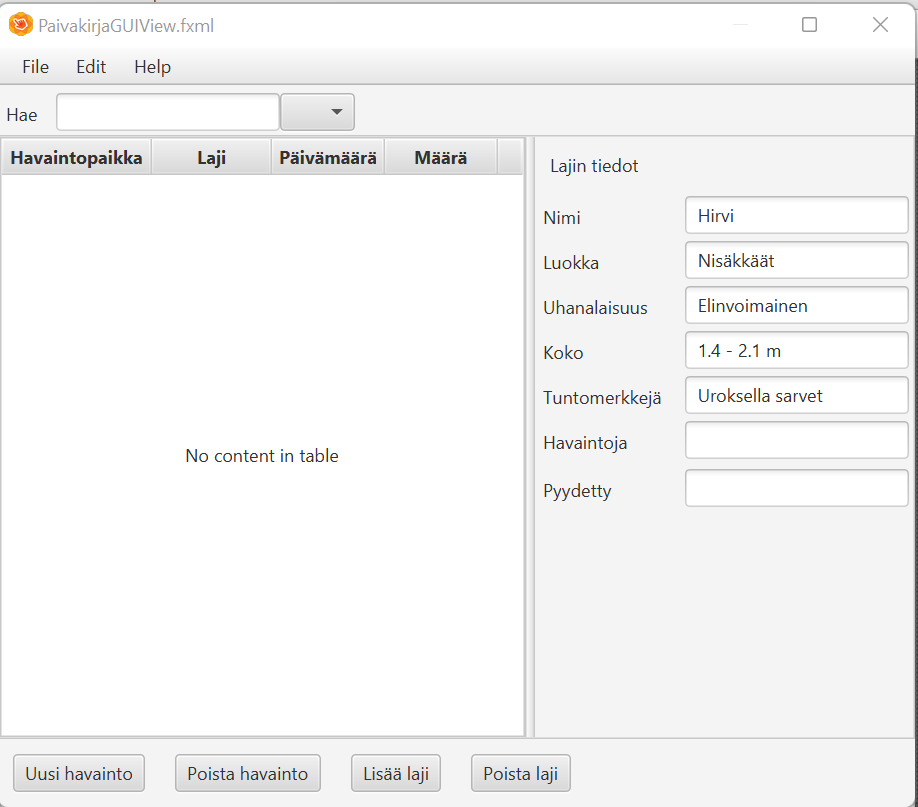
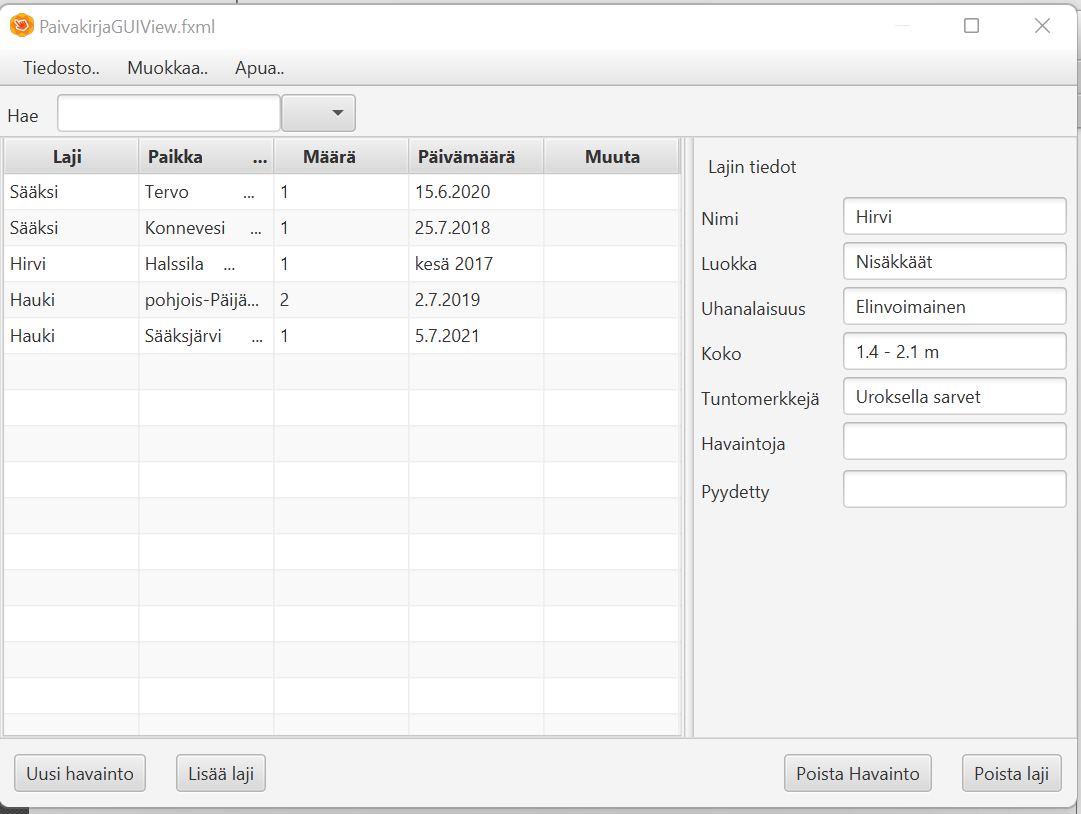
Aloitettu vaihetta 3

diff --git a/paivakirja/src/fxPaivakirja/PaivakirjaGUIController.java b/paivakirja/src/fxPaivakirja/PaivakirjaGUIController.java
@@ -1,10 +1,83 @@
 package fxPaivakirja;
 
+import java.awt.Desktop;
+import java.io.IOException;
+import java.net.URI;
+import java.net.URISyntaxException;
+
+import fi.jyu.mit.fxgui.Dialogs;
+import javafx.fxml.FXML;
+import javafx.scene.control.Button;
+import javafx.scene.control.ComboBox;
+import javafx.scene.control.Menu;
+import javafx.scene.control.TextField;
+
+
 /**
  * @author lassi
  * @version 20.1.2022
  *
  */
 public class PaivakirjaGUIController {
-      // TODO
+
+    @FXML
+    private Button buttonPoistaH;
+
+    @FXML
+    private Button buttonPoistaLaji;
+
+    @FXML
+    private Button buttonUusiH;
+
+    @FXML
+    private Button buttonUusiLaji;
+
+    @FXML
+    private ComboBox<?> cboxVEhdot;
+
+    @FXML
+    private Menu menuApua;
+
+    @FXML
+    private Menu menuMuokkaa;
+
+    @FXML
+    private Menu menuTiedosto;
+
+    @FXML
+    private TextField textHae;
+
+    @FXML
+    void mouseClicked() {
+        virheilmoitus();
+    }
+    
+    @FXML
+    void handeApua() {
+        avustus();
+    }
+
+    
+    //--------------------------------------
+    
+    /**
+     * Näytetään ohjelman suunnitelma erillisessä selaimessa.
+     */
+    private void avustus() {
+        Desktop desktop = Desktop.getDesktop();
+        try {
+            URI uri = new URI("https://tim.jyu.fi/view/kurssit/tie/ohj2/2022k/ht/loklaiti");
+            desktop.browse(uri);
+        } catch (URISyntaxException e) {
+            return;
+        } catch (IOException e) {
+            return;
+        }
+    }
+    
+    
+    private void virheilmoitus() {
+        Dialogs.showMessageDialog("Ei toimi vielä!");
+    }
+
 }
